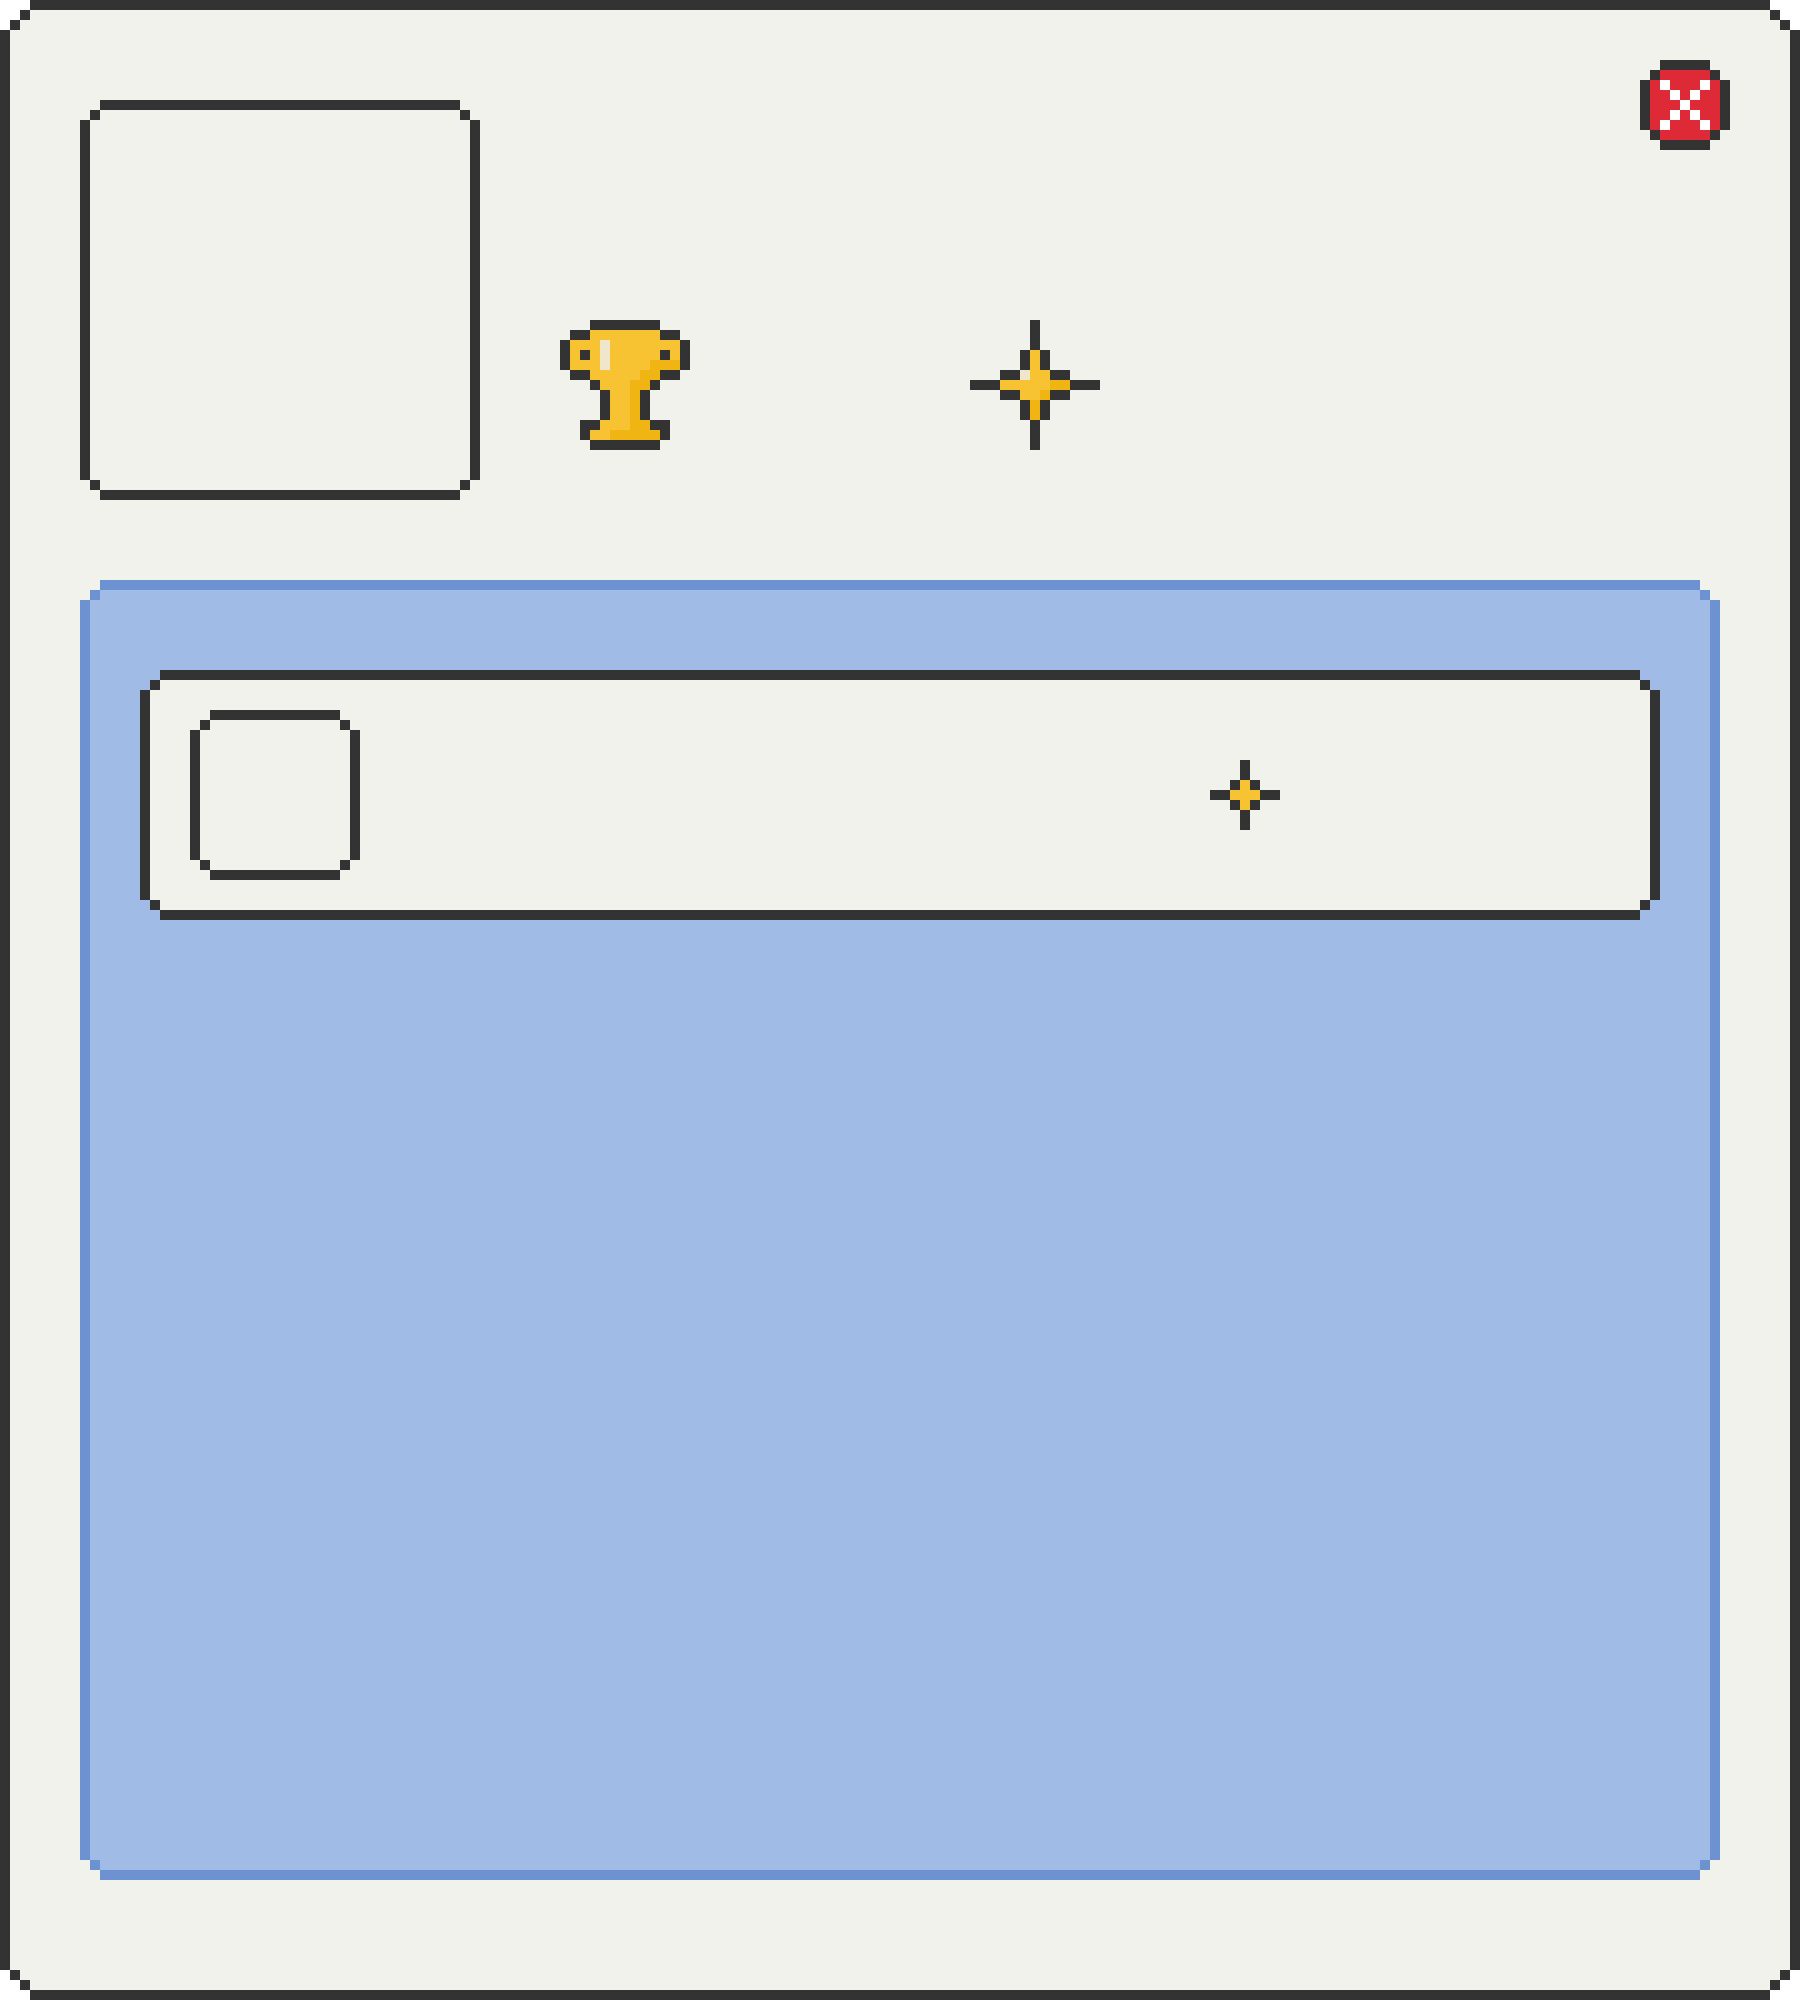
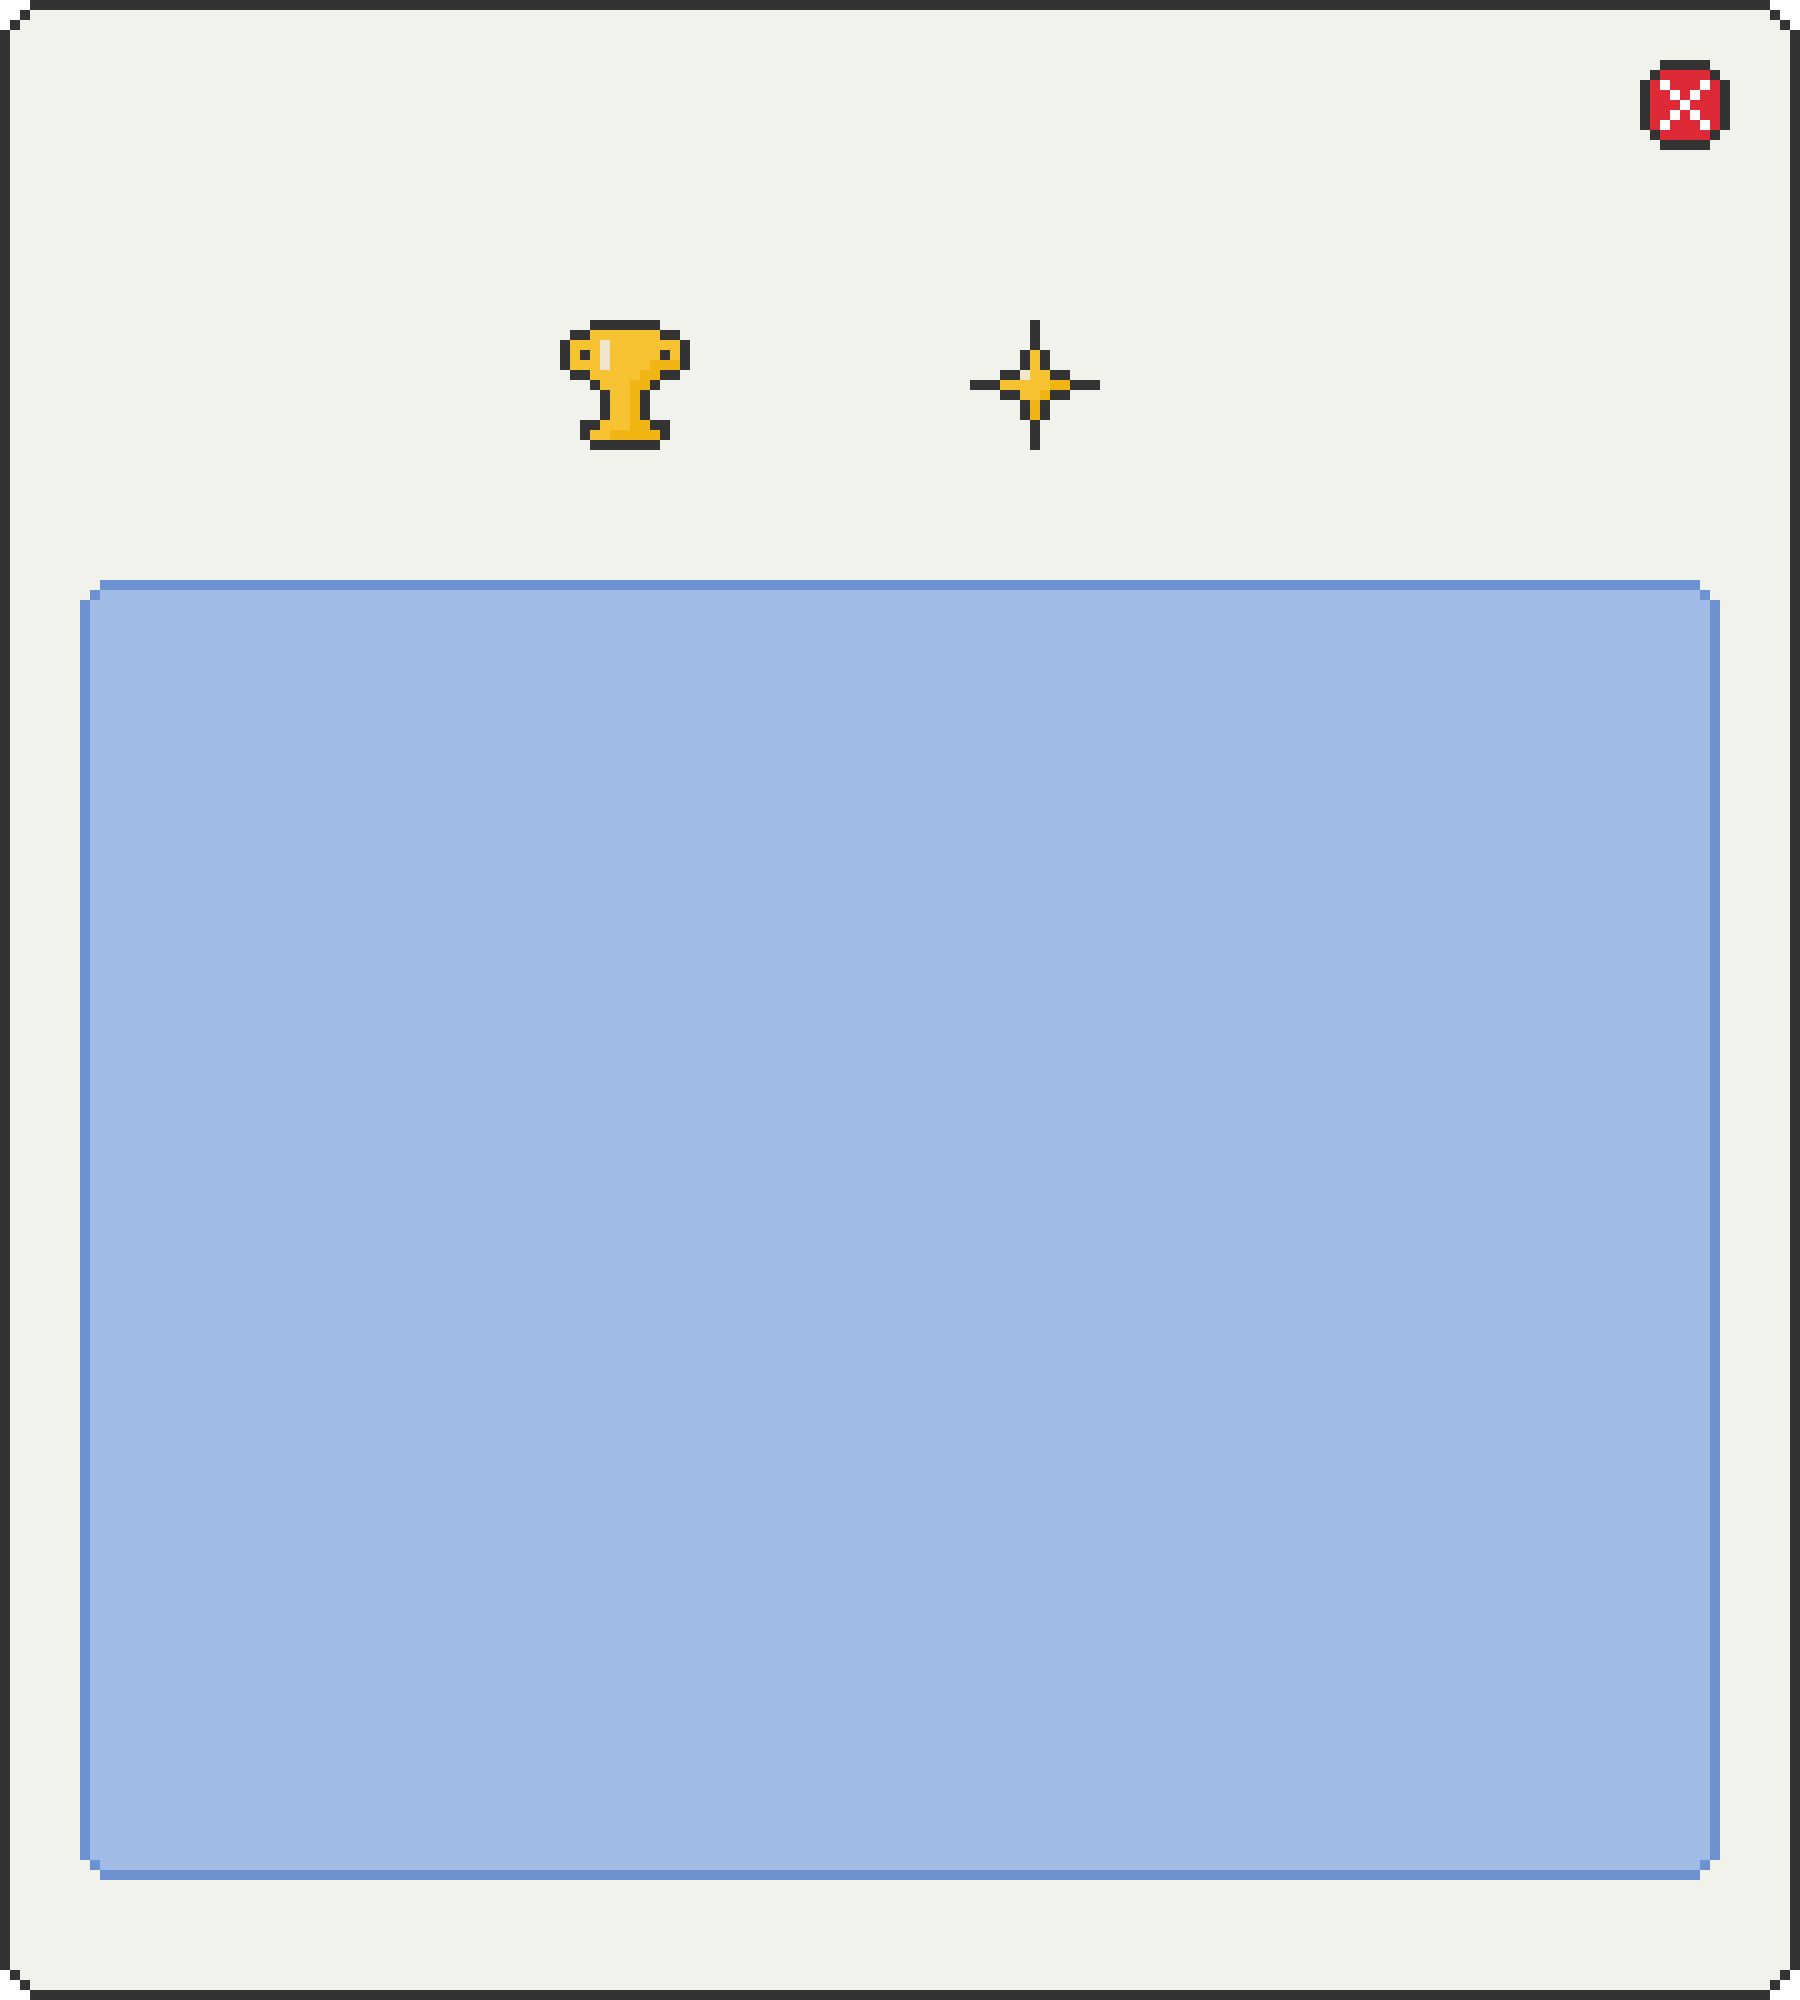
[#40]; style: 이미지 위치 수정

diff --git a/src/components/GgumRunnerMinigame.css b/src/components/GgumRunnerMinigame.css
@@ -182,15 +182,25 @@
   width: 18px;
 }
 
+.ggum-runner-postgame-overlay::-webkit-scrollbar-button {
+  display: none;
+  width: 0;
+  height: 0;
+}
+
+.ggum-runner-postgame-overlay::-webkit-scrollbar-corner {
+  background: transparent;
+}
+
 .ggum-runner-postgame-overlay::-webkit-scrollbar-track {
-  margin: 6px 0;
+  margin: 8px 0;
   background: rgba(14, 22, 10, 0.45);
-  border-radius: 9px;
+  border-radius: 999px;
   box-shadow: inset 0 0 0 1px rgba(255, 251, 235, 0.06);
 }
 
 .ggum-runner-postgame-overlay::-webkit-scrollbar-thumb {
-  border-radius: 9px;
+  border-radius: 999px;
   background: linear-gradient(180deg, #6d8a52 0%, #4a6e3a 48%, #2f4f28 100%);
   border: 1px solid rgba(18, 30, 14, 0.85);
   box-shadow:
@@ -432,34 +442,61 @@
   display: flex;
   flex-direction: column;
   gap: 6px;
-  padding: 2px 4px 4px;
+  padding: 2px 6px 4px 4px;
   -webkit-overflow-scrolling: touch;
-  scrollbar-width: auto;
-  scrollbar-color: #517545 rgba(12, 20, 8, 0.6);
+  /* Firefox: 캡슐 트랙 + 회색 썸 (OS 기본 화살표 없음) */
+  scrollbar-width: thin;
+  scrollbar-color: #8b9199 #ececec;
 }
 
+/* 골 리스트 전용 커스텀 스크롤 — 화살표 없음, 위·아래 반원 마감 */
 .ggum-runner-goal-list-scroll::-webkit-scrollbar {
-  width: 14px;
+  width: 10px;
+}
+
+.ggum-runner-goal-list-scroll::-webkit-scrollbar-button,
+.ggum-runner-goal-list-scroll::-webkit-scrollbar-button:single-button,
+.ggum-runner-goal-list-scroll::-webkit-scrollbar-button:start:decrement,
+.ggum-runner-goal-list-scroll::-webkit-scrollbar-button:end:increment {
+  display: none;
+  width: 0;
+  min-width: 0;
+  height: 0;
+  min-height: 0;
+}
+
+.ggum-runner-goal-list-scroll::-webkit-scrollbar-corner {
+  background: transparent;
 }
 
 .ggum-runner-goal-list-scroll::-webkit-scrollbar-track {
-  margin: 4px 0;
-  background: rgba(14, 22, 10, 0.4);
-  border-radius: 7px;
-  box-shadow: inset 0 0 0 1px rgba(255, 251, 235, 0.06);
+  margin: 6px 0;
+  background: linear-gradient(180deg, #f6f6f6 0%, #ebebeb 100%);
+  border-radius: 999px;
+  box-shadow:
+    inset 0 0 0 1px rgba(255, 255, 255, 0.65),
+    inset 0 1px 2px rgba(0, 0, 0, 0.07);
 }
 
 .ggum-runner-goal-list-scroll::-webkit-scrollbar-thumb {
-  border-radius: 7px;
-  background: linear-gradient(180deg, #6d8a52 0%, #4a6e3a 48%, #2f4f28 100%);
-  border: 1px solid rgba(18, 30, 14, 0.85);
+  border-radius: 999px;
+  min-height: 32px;
+  background: linear-gradient(180deg, #b4b8bf 0%, #8e939c 100%);
+  border: 2px solid transparent;
+  background-clip: padding-box;
   box-shadow:
-    inset 0 1px 0 rgba(255, 255, 255, 0.18),
-    0 1px 2px rgba(0, 0, 0, 0.3);
+    inset 0 1px 0 rgba(255, 255, 255, 0.35),
+    0 1px 2px rgba(0, 0, 0, 0.12);
 }
 
 .ggum-runner-goal-list-scroll::-webkit-scrollbar-thumb:hover {
-  background: linear-gradient(180deg, #7c9a60 0%, #557d45 48%, #3a5c32 100%);
+  background: linear-gradient(180deg, #a0a5ae 0%, #767b86 100%);
+  border-color: transparent;
+  background-clip: padding-box;
+}
+
+.ggum-runner-goal-list-scroll::-webkit-scrollbar-thumb:active {
+  background: linear-gradient(180deg, #8f949e 0%, #656a74 100%);
 }
 
 .ggum-runner-goal-row {
@@ -476,13 +513,13 @@
 
 .ggum-runner-goal-row-thumb-wrap {
   position: absolute;
-  left: 5.5%;
+  left: 3.4%;
   top: 50%;
   transform: translateY(-50%);
-  width: 13%;
-  height: 74%;
-  max-width: 40px;
-  max-height: 40px;
+  width: 11%;
+  height: 60%;
+  max-width: 50px;
+  max-height: 50px;
   display: flex;
   align-items: center;
   justify-content: center;

diff --git a/src/components/GgumRunnerMinigame.jsx b/src/components/GgumRunnerMinigame.jsx
@@ -24,7 +24,7 @@ const TARGET_FPS = 60;
 const FRAME_MS = 1000 / TARGET_FPS;
 
 /** 왼쪽부터 save_modal.png 카드와 1:1 (비트맵에 그려진 그림만 보이고, 여기서는 PNG를 로드하지 않음) */
-const SAVE_AVATAR_SLOTS = ["clover", "flower", "cake", "flower"];
+const SAVE_AVATAR_SLOTS = ["clover", "flower", "cake", "dog"];
 
 function avatarSrc(key) {
   return `/assets/minigame/image_card/${key}.png`;